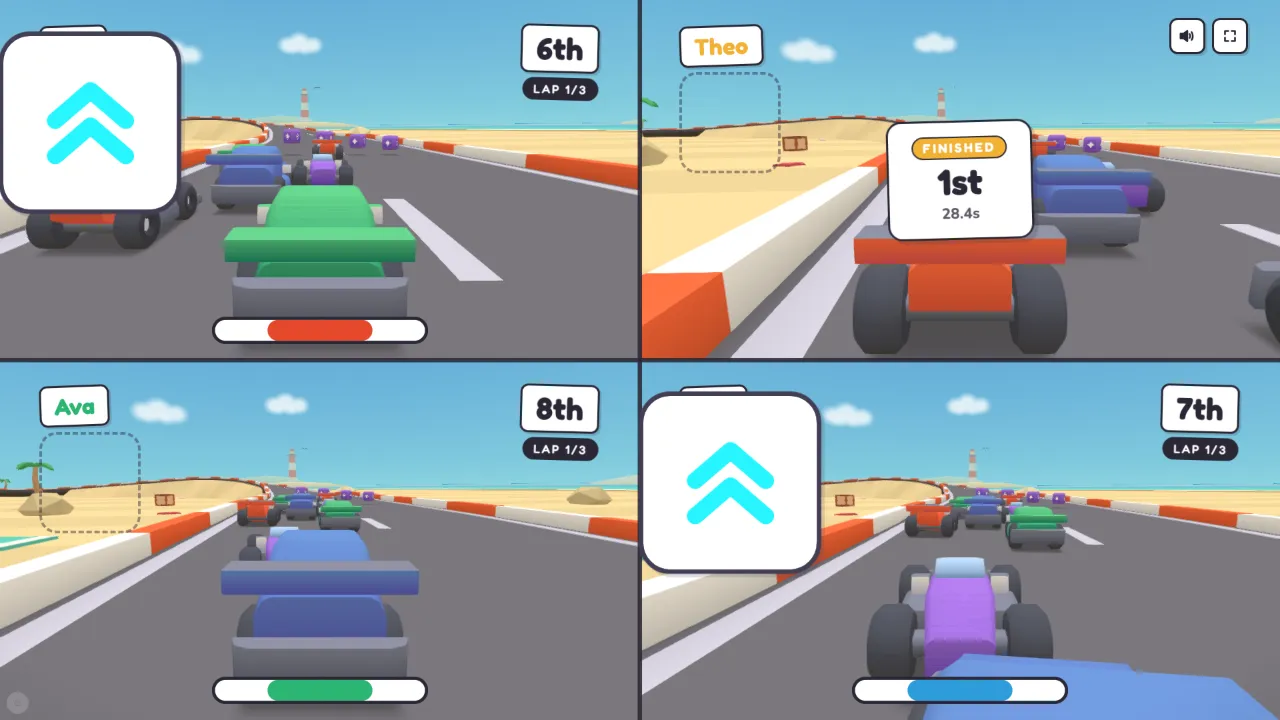
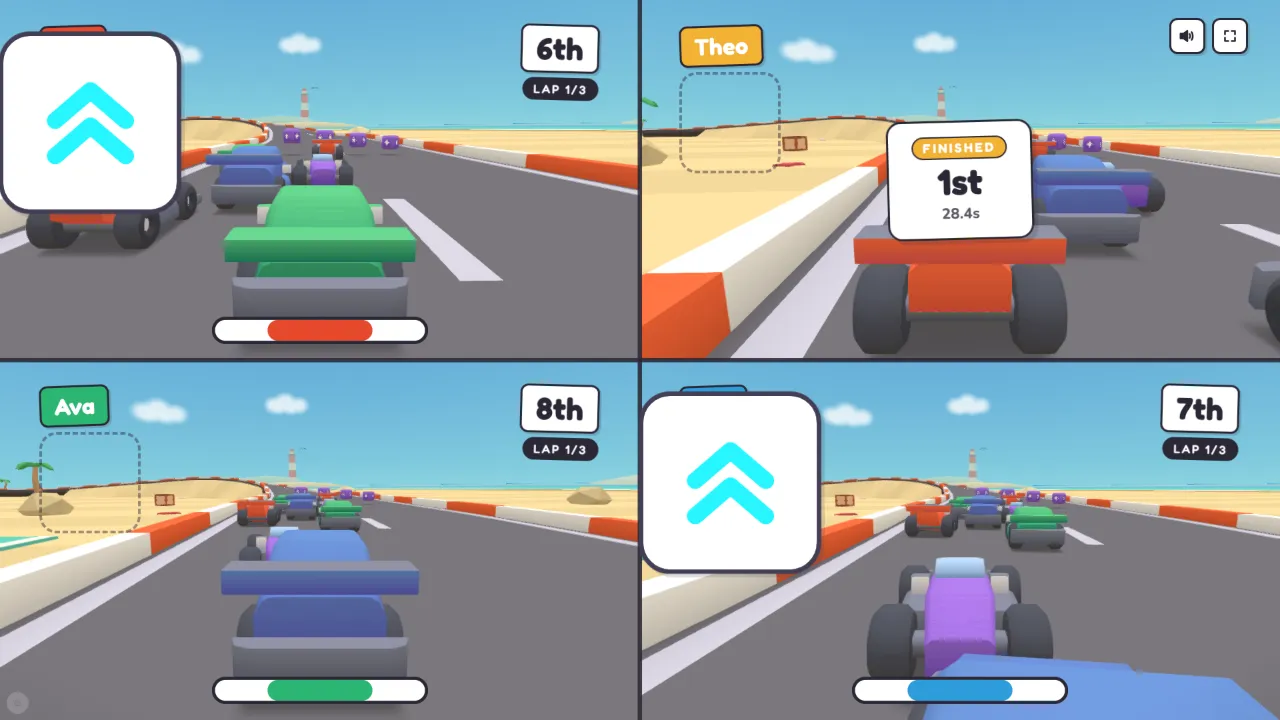
fix(hud): the cell name chip is FILLED with the player's livery, on all three displays
The phone has always worn its name as white text on a livery-filled sticker;
every display wore the inverse, livery text on white paper, while the CSS
claimed it "mirrors the display's cell name tags". It never did. The tag is now
the phone's on all four implementations — the web display, and the two hand
ports of that rule in the tvOS and Android shells.

Filled rather than livery text on white: across a four-way split the thing you
hunt for is your own cell, and a solid block of your colour is found in
peripheral vision where coloured glyphs are not. It also puts the tag in the
same dress as .cell-finish__badge, which has always been white-on-livery.

This overrules the reason the ports carried for the old dress (the car below the
tag is already the swatch) — the car is only reliably yours in a chase-cam
moment, and it shares the shot with rivals.

Known and NOT introduced here: white-on-livery contrast is 1.89 for the amber
seat and 1.86 for cyan, so those names are weak at a glance. The ratio is
symmetric, so they were exactly as weak the other way round. The cure is a
per-livery text colour, which is its own change.

The web reference shots are re-baked. The tvos-device / androidtv-device columns
of /gallery-shots.html are photographs and stay stale until someone re-shoots
them on hardware; the manifest stamps gitSha per shot, so that is visible.

Claude-Session: https://claude.ai/code/session_011ME5dGWX6DhCXz47nAShQg

diff --git a/shells/androidtv/app/src/main/kotlin/games/couchpad/tinytrack/RaceScreen.kt b/shells/androidtv/app/src/main/kotlin/games/couchpad/tinytrack/RaceScreen.kt
@@ -165,9 +165,11 @@ private fun CellChrome(cell: GameState.CellHUD, state: GameState) {
 }
 
 /**
- * `.cell-label__name` — the player's name in their LIVERY on a white sticker. The
- * livery is the text colour here, not a dot, which is why this is not the web's
- * `.chip` token: in a cell the car right below it is already the swatch.
+ * `.cell-label__name` — the player's name on a sticker FILLED with their livery,
+ * white text. Filled rather than livery text on white (which this was, and which
+ * the phone never did): across a four-way split the thing you hunt for is your own
+ * cell, and a solid block of your colour is found in peripheral vision where
+ * coloured GLYPHS are not.
  */
 @Composable
 private fun NameChip(name: String, colorIndex: Int) {
@@ -177,12 +179,12 @@ private fun NameChip(name: String, colorIndex: Int) {
         Modifier
             .tilt(-2f)
             .hardShadow(Sticker.popShadow, shape)
-            .background(Tokens.surface, shape)
+            .background(Tokens.car(colorIndex), shape)
             .stickerOutline(Sticker.border, shape)
             .padding(vertical = size * 0.3f, horizontal = size * 0.55f)
     ) {
         StickerText(
-            name, size = size, color = Tokens.car(colorIndex),
+            name, size = size, color = Color.White,
             // `max-width: 14em`, so a long name truncates rather than running
             // across the cell into the next player's picture.
             modifier = Modifier.widthIn(max = size * 14),
@@ -480,7 +482,7 @@ fun PauseOverlay(game: GameCoordinator) {
         // `rgba(255,246,235,0.72)` — the same warm glass the results board uses —
         // so the frozen race washes OUT toward paper and the card reads as sitting
         // on something lit. Scrimming with ink at 45% inverted the value of the
-        // whole screen: a name chip's white paper fell from 255 to 166.
+        // whole screen: the place badge's white paper fell from 255 to 166.
         //
         // (The web adds `backdrop-filter: blur(10px)`. There is no equivalent here:
         // Compose's RenderEffect blurs its own subtree, and what is behind this is

diff --git a/shells/tvos/TinyTrackParty/Screens/RaceHUDView.swift b/shells/tvos/TinyTrackParty/Screens/RaceHUDView.swift
@@ -194,9 +194,11 @@ private struct CellChrome: View {
 
 // MARK: - The name chip
 
-/// `.cell-label__name` — the player's name in their LIVERY on a white sticker.
-/// The livery is the text colour here, not `theme.css`'s `.chip` colour dot:
-/// in a cell the car right below it is already the swatch.
+/// `.cell-label__name` — the player's name on a sticker FILLED with their livery,
+/// white text. Filled rather than livery text on white (which this was, and which
+/// the phone never did): across a four-way split the thing you hunt for is your
+/// own cell, and a solid block of your colour is found in peripheral vision where
+/// coloured GLYPHS are not.
 private struct NameChip: View {
     let name: String
     let colorIndex: Int
@@ -211,14 +213,14 @@ private struct NameChip: View {
     var body: some View {
         Text(name)
             .font(Fonts.display(Self.size, weight: .bold))
-            .foregroundStyle(Tokens.car(colorIndex))
+            .foregroundStyle(.white)
             .lineLimit(1)
             .truncationMode(.tail)
             .padding(.vertical, Self.size * 0.3)
             .padding(.horizontal, Self.size * 0.55)
             .background(
                 RoundedRectangle(cornerRadius: Sticker.radiusSmall, style: .continuous)
-                    .fill(Tokens.surface)
+                    .fill(Tokens.car(colorIndex))
                     .hardShadow(Sticker.popShadow)
             )
             .stickerOutline(Sticker.border, radius: Sticker.radiusSmall)

diff --git a/public/display/display.css b/public/display/display.css
@@ -605,18 +605,25 @@ html.cam-free #race { pointer-events: none; }
 }
 
 /* per-viewport (split-screen) label, anchored at each cell's top-left: the
-   player's name as a white sticker tag, the item slot beneath it. */
+   player's name as a LIVERY sticker tag, the item slot beneath it. */
 .cell-label {
   position: absolute; display: none; margin: 0.7rem; pointer-events: none;
 }
 /* name on top, the item slot stacked + left-aligned below it (place + lap
    moved out to the top-right .cell-rank readout) */
 .cell-label__row { display: flex; flex-direction: column; align-items: flex-start; gap: 0.5rem; }
+/* FILLED with the player's livery, white text — the same tag the phone wears
+   (controller.css .lobby-me__name), so your name reads as one object across both
+   screens. Filled rather than livery text on white: across a 4-way split the
+   thing you hunt for is your cell, and a solid block of your car's colour is
+   found in peripheral vision where coloured GLYPHS are not. It also degrades
+   better on the palest liveries, where the name washes out either way round but
+   the tag still says whose cell this is. */
 .cell-label__name {
   font-family: var(--font-display); font-weight: 700; font-size: clamp(1.5rem, 2vw, 2.2rem);
   line-height: 1;
-  color: var(--c, var(--ink));
-  background: var(--surface);
+  color: #fff;
+  background: var(--c, var(--brand));
   border: 3px solid var(--ink); border-radius: var(--r-sm);
   padding: 0.3em 0.55em;
   transform: rotate(-2deg);
